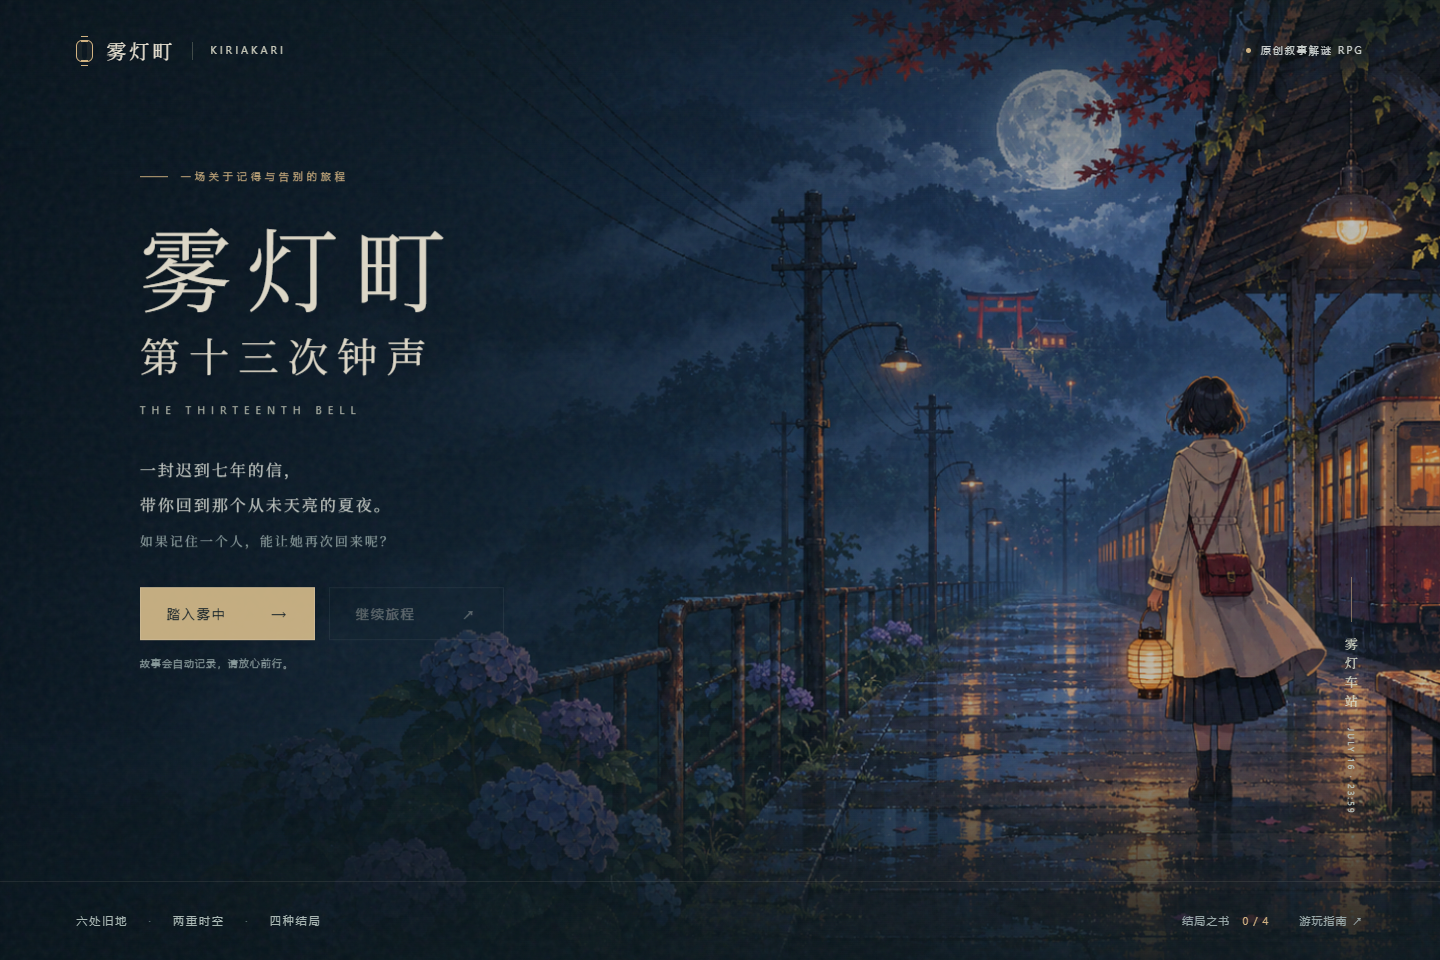
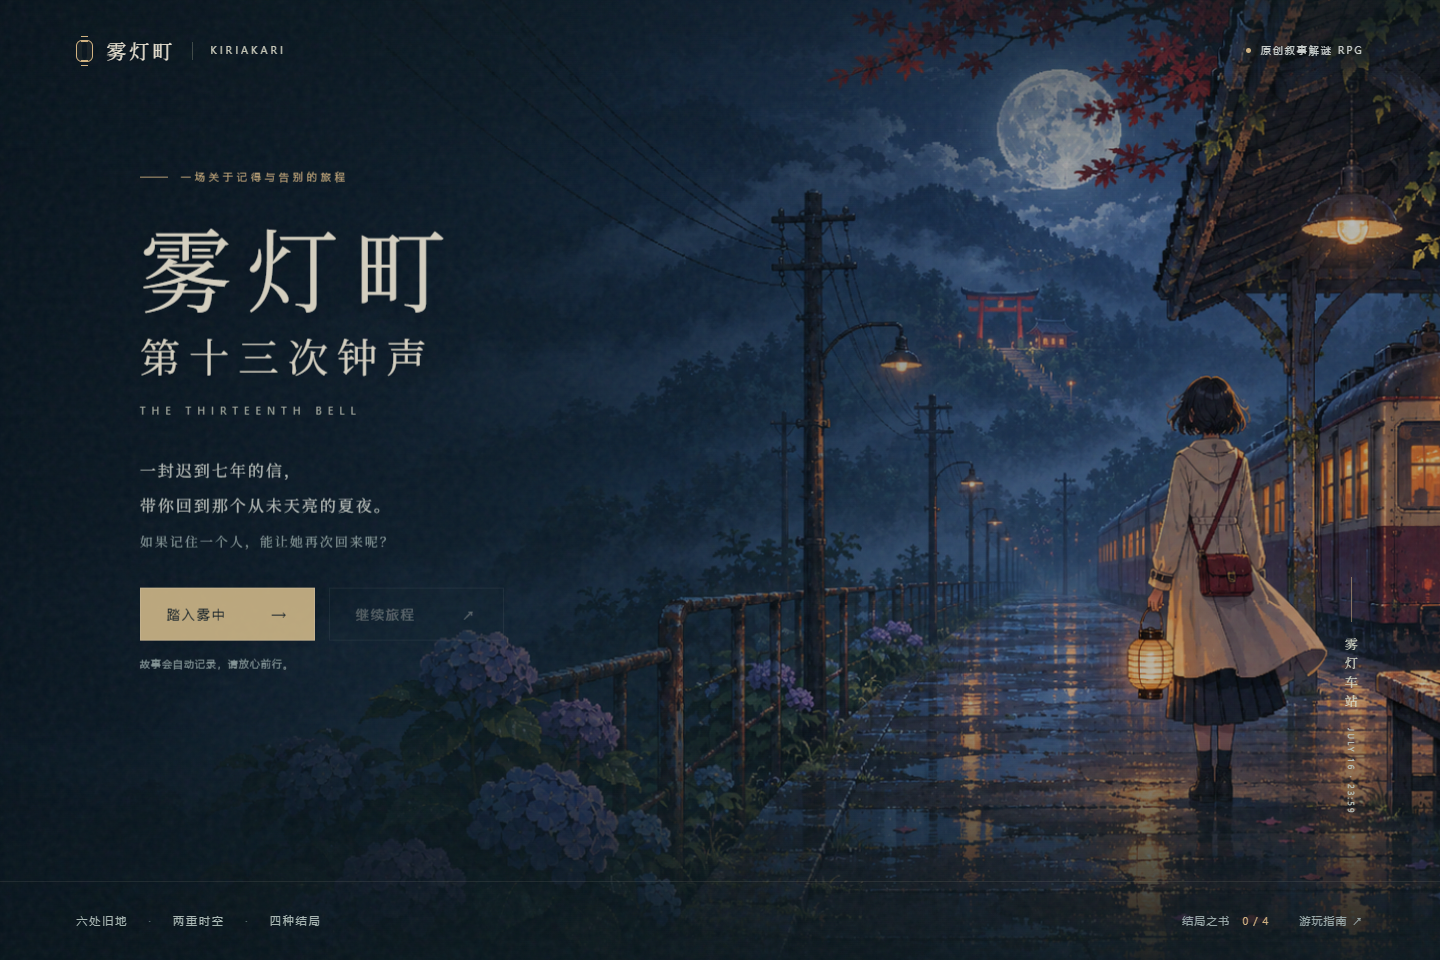
Reduce lantern size and strengthen the memory atmosphere

diff --git a/lighting.js b/lighting.js
@@ -5,7 +5,7 @@
   let phase=null,phaseAt=-10000,lastTime=0,mix=0,fogCanvas,grain;
   // Anchored to the carrying hand, including the hidden far hand when facing north.
   function pose(facing,walking,time,reduced=false){
-    const offsets=[{x:.30,y:-.25},{x:-.29,y:-.26},{x:.30,y:-.26},{x:-.24,y:-.30}];
+    const offsets=[{x:.25,y:-.28},{x:-.25,y:-.29},{x:.25,y:-.29},{x:-.20,y:-.32}];
     const anchor=offsets[facing]||offsets[0],swing=reduced?0:Math.sin(time*(walking?.012:.002));
     return {x:anchor.x+(walking?swing*.018:0),y:anchor.y+(walking?Math.abs(swing)*.025:0),angle:reduced?0:swing*(walking?8:2),behind:facing===3};
   }
@@ -41,20 +41,20 @@
         const radius=tile*(3.6+i%3),span=width+radius*2;
         const x=((i*width*.31+t*.004*(i%2?1:-1)-view.x*tile*.18)%span+span)%span-radius;
         const y=height*(.18+(i%4)*.24)+Math.sin(t*.00012+i)*tile*.35;
-        radial(fog,x,y,radius,`rgba(217,218,205,${.11*mix})`,'rgba(217,218,205,0)');
+        radial(fog,x,y,radius,`rgba(217,218,205,${.18*mix})`,'rgba(217,218,205,0)');
       }
       for(let i=0;i<3;i++){
         const x=width*(.18+i*.32)+Math.sin(t*.00015+i)*tile*1.5-view.x*tile*.08,y=height*(.28+i*.29);
         fog.save();fog.translate(x,y);fog.scale(2.8,.32);
-        radial(fog,0,0,tile*2.1,`rgba(236,225,201,${.14*mix})`,'rgba(236,225,201,0)');fog.restore();
+        radial(fog,0,0,tile*2.1,`rgba(236,225,201,${.22*mix})`,'rgba(236,225,201,0)');fog.restore();
       }
       if(lit){fog.globalCompositeOperation='destination-out';radial(fog,focus.x,focus.y,tile*2.8,'rgba(0,0,0,.95)','rgba(0,0,0,0)');fog.globalCompositeOperation='source-over';}
       pen.drawImage(fogCanvas,0,0,width,height);
-      pen.globalAlpha=mix*.28;pen.fillStyle=pen.createPattern(noise(),'repeat');pen.fillRect(0,0,width,height);pen.globalAlpha=1;
+      pen.globalAlpha=mix*.42;pen.fillStyle=pen.createPattern(noise(),'repeat');pen.fillRect(0,0,width,height);pen.globalAlpha=1;
     }
     // Peripheral depth: edges recede while the route immediately around Mio stays clear.
-    const edge=pen.createRadialGradient(point.x,point.y-tile*.45,tile*1.1,point.x,point.y-tile*.45,Math.max(width,height)*.73);
-    edge.addColorStop(0,'rgba(15,21,28,0)');edge.addColorStop(.5,`rgba(22,25,33,${.035+mix*.035})`);edge.addColorStop(1,`rgba(18,22,33,${.12+mix*.23})`);pen.fillStyle=edge;pen.fillRect(0,0,width,height);
+    const edge=pen.createRadialGradient(point.x,point.y-tile*.45,tile*1.1,point.x,point.y-tile*.45,Math.max(width*(.73-mix*.14),height*.85));
+    edge.addColorStop(0,'rgba(15,21,28,0)');edge.addColorStop(.5,`rgba(22,25,33,${.035+mix*.055})`);edge.addColorStop(1,`rgba(18,22,33,${.12+mix*.43})`);pen.fillStyle=edge;pen.fillRect(0,0,width,height);
     if(lit){
       pen.save();pen.globalCompositeOperation='screen';
       const breath=reduced?1:1+Math.sin(t*.003)*.035;

diff --git a/style.css b/style.css
@@ -77,14 +77,14 @@
 #buildings{pointer-events:none}.building-sprite{position:absolute;pointer-events:none;image-rendering:pixelated}.scene-label,.phase-button,.scene-bottom{z-index:10000}
 /* The guide lamp is a real sprite; memory is lit fog and old photographic paper. */
 .player .sprite{z-index:1}
-.player .player-lantern{width:calc(var(--tile-size)*.47);height:calc(var(--tile-size)*.62);right:auto;bottom:auto;background:url('assets/guide-lantern.png') center/100% 100% no-repeat;border-radius:0;box-shadow:none;z-index:2;transform:translate(-50%,-55%) rotate(var(--lamp-angle,0deg));transform-origin:50% 13%;image-rendering:pixelated;filter:drop-shadow(0 0 2px #ffdaa052)}
+.player .player-lantern{width:calc(var(--tile-size)*.32);height:calc(var(--tile-size)*.43);right:auto;bottom:auto;background:url('assets/guide-lantern.png') center/100% 100% no-repeat;border-radius:0;box-shadow:none;z-index:2;transform:translate(-50%,-55%) rotate(var(--lamp-angle,0deg));transform-origin:50% 13%;image-rendering:pixelated;filter:drop-shadow(0 0 2px #ffdaa052)}
 .player .player-lantern[data-behind=true]{z-index:0;filter:brightness(.85)}
-.world.echo #tile-map,.world.echo .building-sprite{filter:saturate(.78) sepia(.16) contrast(.94) brightness(1.07)}
+.world.echo #tile-map,.world.echo .building-sprite{filter:saturate(.45) sepia(.45) contrast(.92) brightness(1.06)}
 #tile-map,.building-sprite{transition:filter .65s ease}
-.world.echo .scenery-art{filter:brightness(.97) saturate(.72) sepia(.14)}
-.world.echo .scene-prop{filter:brightness(1.02) saturate(.76) sepia(.13) drop-shadow(0 2px 1px #2d272540)}
-.world.echo .world-background{filter:saturate(.78) sepia(.16) contrast(.94)}
-.echo-wash{background:linear-gradient(135deg,#efe5cb08,transparent 45%,#8c8b9920);z-index:5900}
+.world.echo .scenery-art{filter:brightness(.95) saturate(.43) sepia(.43)}
+.world.echo .scene-prop{filter:brightness(1.01) saturate(.48) sepia(.40) drop-shadow(0 2px 1px #2d272540)}
+.world.echo .world-background{filter:saturate(.45) sepia(.45) contrast(.92)}
+.echo-wash{background:linear-gradient(135deg,#e8d0a12b,#efe1bd10 45%,#56546732);z-index:5900}
 #atmosphere{z-index:6000}
 .world.echo .phase-button{background:#3b3931ed;border-color:#d9c99a80}
 .world.echo .phase-icon{color:#f2d59d}
